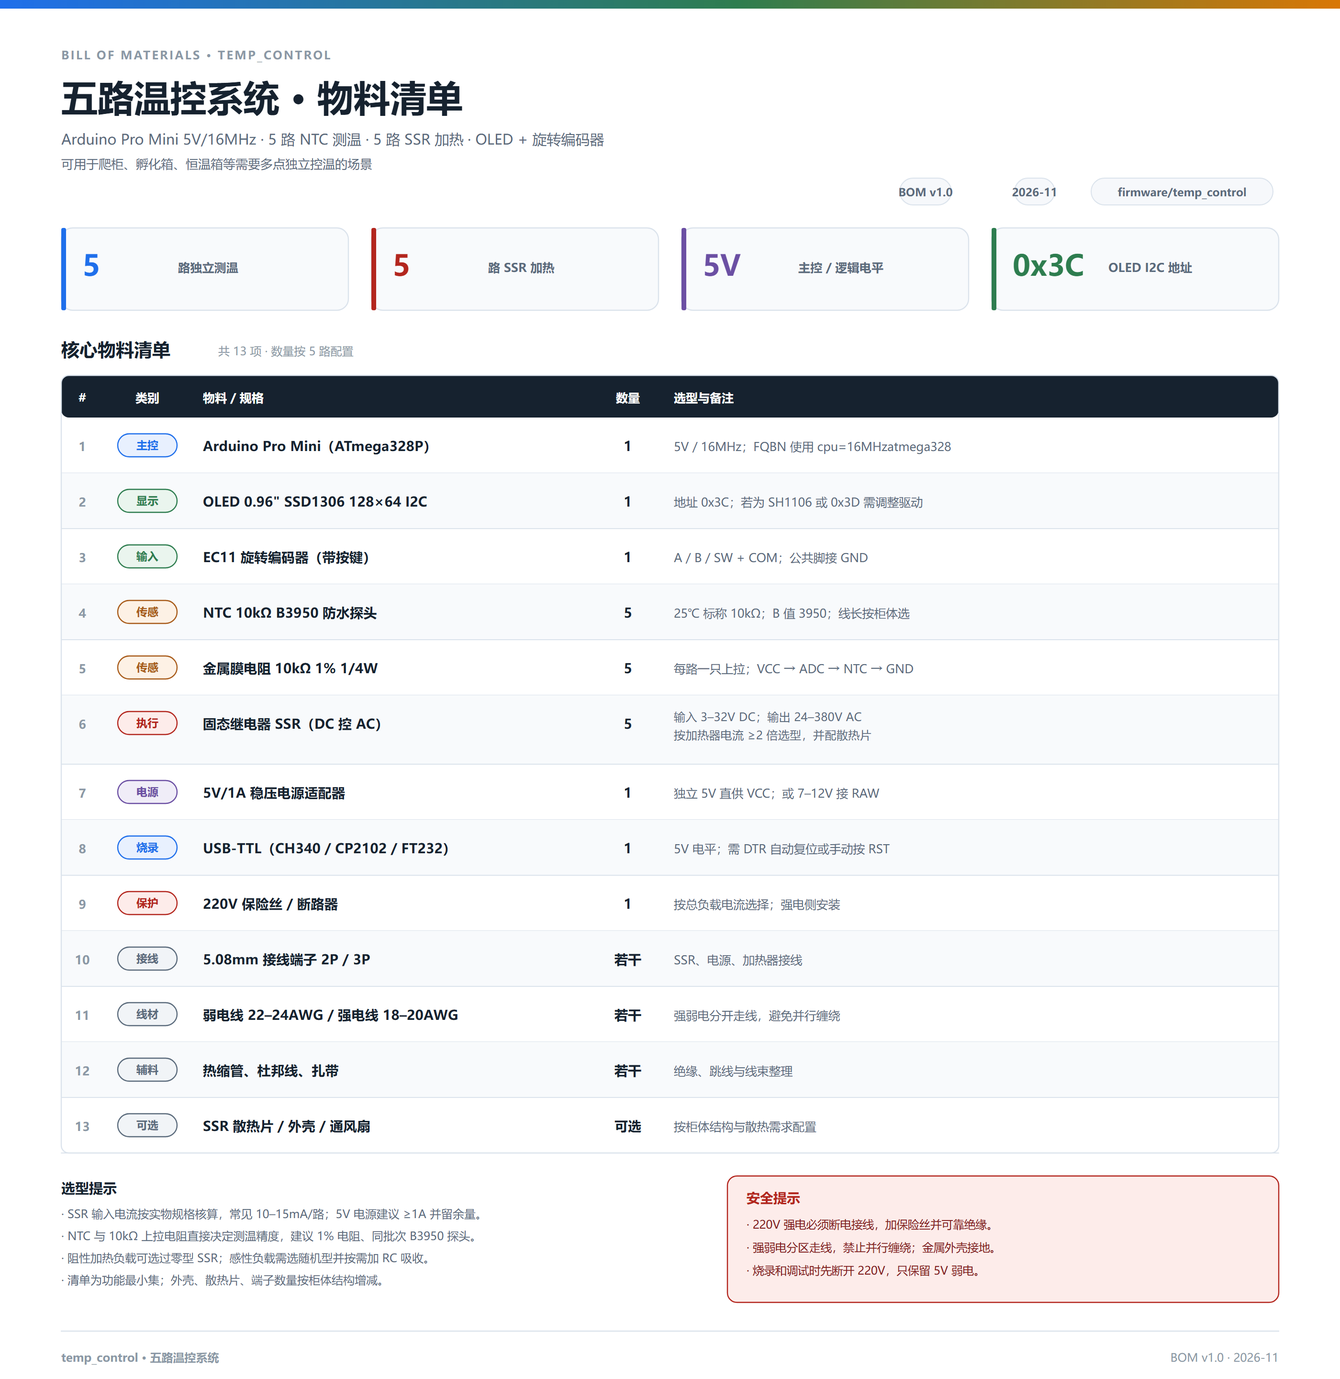
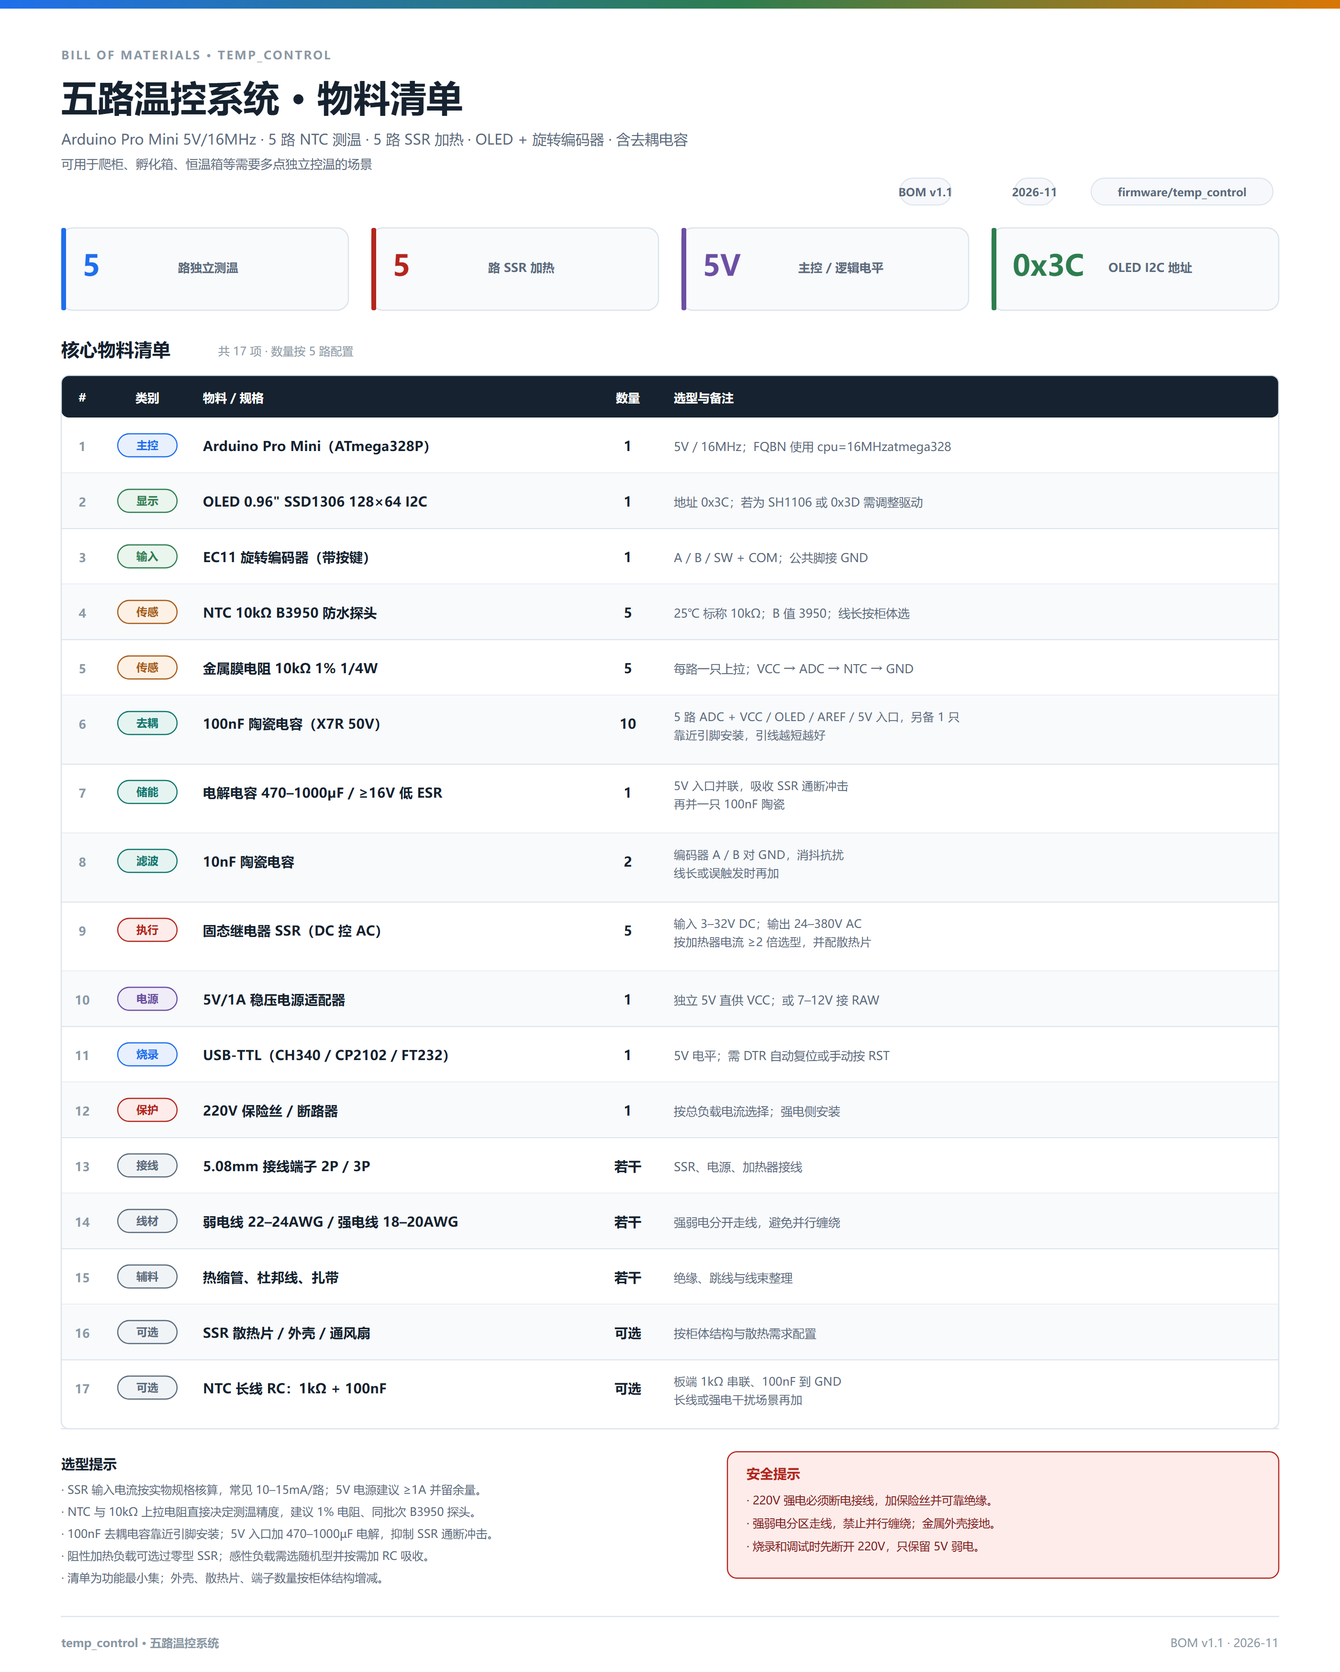
补充电容去耦方案：BOM、接线图与调试文档
- BOM 新增 100nF x10、470-1000uF 电解、10nF x2 及可选的 NTC 长线 RC
- 接线图增加单路 ADC 输入示意，标注 100nF 低通与长线 RC，图例加入电容
- 接线要点补 ADC 去耦、5V 储能、编码器 10nF 与 D5-D9 10k 下拉
- 编码器抗扰建议从 100nF 改为 10nF，避免快转丢步
- BOM 表格高度改为按行数计算，避免增删物料后被裁切

diff --git a/docs/wiring/generate.py b/docs/wiring/generate.py
@@ -22,6 +22,7 @@ SIG = "#1f6feb"
 PWR = "#d92b2b"
 GND = "#1c1c1c"
 NTC = "#a85b1a"
+CAP = "#0f766e"
 
 SSR_FILL = "#fff6ea"
 SSR_LINE = "#c07000"
@@ -32,6 +33,7 @@ MCU_LINE = "#2f5478"
 UI_FILL = "#f1f7f1"
 UI_LINE = "#2e7d4f"
 BAND = "#fafbfd"
+CAP_FILL = "#e6f4f1"
 
 
 def esc(s):
@@ -107,6 +109,15 @@ def ntc_sym(x, y_top, h=64, w=26):
     return "".join(out)
 
 
+def cap_sym(x, y_top, w=24):
+    """Vertical ceramic capacitor: two plates, 18px total height."""
+    out = [line(x, y_top, x, y_top + 4, stroke=CAP, sw=2.2)]
+    out.append(line(x - w / 2.0, y_top + 4, x + w / 2.0, y_top + 4, stroke=CAP, sw=3.0))
+    out.append(line(x - w / 2.0, y_top + 12, x + w / 2.0, y_top + 12, stroke=CAP, sw=3.0))
+    out.append(line(x, y_top + 12, x, y_top + 18, stroke=CAP, sw=2.2))
+    return "".join(out)
+
+
 # ---------------------------------------------------------------- 主接线图
 
 ROWS = [
@@ -137,7 +148,7 @@ def wiring_diagram():
     b.append(text(60, 64, "五路温控系统 · 接线图", 30, INK, weight=700))
     b.append(text(60, 98,
                   "Arduino Pro Mini (ATmega328P, 5V/16MHz) · NTC 10kΩ B3950 上拉接法 · "
-                  "SSR 开关加热 · EC11 编码器 · SSD1306 OLED",
+                  "100nF 去耦 · SSR 开关加热 · EC11 编码器 · SSD1306 OLED",
                   15, SUB))
     b.append(text(60, 120,
                   "5 路独立控温 · 爬柜、孵化箱、恒温箱等场景通用",
@@ -222,7 +233,12 @@ def wiring_diagram():
         b.append(poly([(NODE, y + 90), (NODE, y + 104)], stroke=SIG, sw=2.6))
         b.append(gnd_sym(NODE, y + 104, label=False))
         b.append(text(1215, y + 68, "NTC 10kΩ", 12, NTC, weight=600))
-        b.append(text(NODE + 28, y + 118, "GND", 11, FAINT, weight=600))
+        # 通道 5 的 GND 标注改到左侧，给右下角的 ADC 细节框让位
+        if layer == ROWS[-1][0]:
+            b.append(text(NODE - 28, y + 118, "GND", 11, FAINT,
+                          anchor="end", weight=600))
+        else:
+            b.append(text(NODE + 28, y + 118, "GND", 11, FAINT, weight=600))
         b.append(text(NODE, y - 10, "通道%d 测温" % layer, 11.5, FAINT, anchor="middle"))
 
     # ---------------- 控制面板：编码器 + OLED ----------------
@@ -278,27 +294,60 @@ def wiring_diagram():
     b.append(text(ENC_X - 6, ENC_Y + 80, "COM", 10, GND, anchor="end", weight=600))
 
     # OLED VCC / GND
-    b.append(line(OL_X + OL_W, OL_Y + 30, OL_X + 26 + OL_W, OL_Y + 30,
-                  stroke=PWR, sw=2.4))
-    b.append(line(OL_X + 26 + OL_W, OL_Y + 30, OL_X + 26 + OL_W, OL_Y - 6,
-                  stroke=PWR, sw=2.4))
+    vcc_x = OL_X + 150
+    b.append(line(vcc_x, OL_Y, vcc_x, OL_Y - 6, stroke=PWR, sw=2.4))
     b.append(path("M%s %s L%s %s L%s %s Z"
-                  % (OL_X + 19 + OL_W, OL_Y - 18, OL_X + 26 + OL_W, OL_Y - 32,
-                     OL_X + 33 + OL_W, OL_Y - 18), stroke=PWR, sw=1.5, fill=PWR))
-    b.append(text(OL_X + 26 + OL_W, OL_Y - 38, "VCC", 10.5, PWR,
+                  % (vcc_x - 7, OL_Y - 18, vcc_x, OL_Y - 32,
+                     vcc_x + 7, OL_Y - 18), stroke=PWR, sw=1.5, fill=PWR))
+    b.append(text(vcc_x, OL_Y - 38, "VCC", 10.5, PWR,
                   anchor="middle", weight=700))
 
-    b.append(line(OL_X + OL_W, OL_Y + 72, OL_X + 14 + OL_W, OL_Y + 72,
+    gnd_x = OL_X + 80
+    b.append(line(gnd_x, OL_Y + OL_H, gnd_x, OL_Y + OL_H + 18,
                   stroke=GND, sw=2.4))
-    b.append(line(OL_X + 14 + OL_W, OL_Y + 72, OL_X + 14 + OL_W, OL_Y + 96,
-                  stroke=GND, sw=2.4))
-    b.append(gnd_sym(OL_X + 14 + OL_W, OL_Y + 96, label=False))
-    b.append(text(OL_X + 14 + OL_W + 24, OL_Y + 112, "GND", 10, GND, weight=600))
+    b.append(gnd_sym(gnd_x, OL_Y + OL_H + 18, label=False))
+    b.append(text(gnd_x + 14, OL_Y + OL_H + 40, "GND", 10, GND, weight=600))
+
+    # ---------------- 单路 ADC 输入细节（含去耦电容） ----------------
+    DX, DY, DW, DH = 1210, 1064, 360, 234
+    b.append(rect(DX, DY, DW, DH, fill=CAP_FILL, stroke=CAP, sw=1.6, rx=10))
+    b.append(text(DX + 16, DY + 26, "单路 ADC 输入（每路一份）", 13.5, CAP,
+                  weight=700))
+    b.append(text(DX + 16, DY + 46, "上拉分压 + 100nF 低通，靠近板端", 10.5, SUB))
+
+    # VCC → 10kΩ → 节点
+    b.append(vcc_sym(DX + 40, DY + 72))
+    b.append(line(DX + 40, DY + 102, DX + 60, DY + 102, stroke=PWR, sw=2.4))
+    b.append(resistor(DX + 60, DY + 102))
+    b.append(line(DX + 140, DY + 102, DX + 190, DY + 102, stroke=SIG, sw=2.4))
+    b.append(dot(DX + 190, DY + 102, 4.5, SIG))
+    b.append(text(DX + 198, DY + 88, "→ ADC", 10.5, SIG, weight=700))
+
+    # NTC → GND
+    b.append(line(DX + 190, DY + 102, DX + 190, DY + 114, stroke=SIG, sw=2.4))
+    b.append(ntc_sym(DX + 190, DY + 114, h=40, w=20))
+    b.append(line(DX + 190, DY + 154, DX + 190, DY + 164, stroke=SIG, sw=2.4))
+    b.append(gnd_sym(DX + 190, DY + 164, label=False))
+    b.append(text(DX + 96, DY + 146, "NTC", 10.5, NTC, weight=600))
+    b.append(text(DX + 96, DY + 160, "10kΩ", 10.5, NTC, weight=600))
+
+    # 100nF → GND
+    b.append(line(DX + 190, DY + 102, DX + 270, DY + 102, stroke=SIG, sw=2.4))
+    b.append(line(DX + 270, DY + 102, DX + 270, DY + 112, stroke=CAP, sw=2.2))
+    b.append(cap_sym(DX + 270, DY + 112))
+    b.append(line(DX + 270, DY + 130, DX + 270, DY + 150, stroke=CAP, sw=2.2))
+    b.append(gnd_sym(DX + 270, DY + 150, label=False))
+    b.append(text(DX + 284, DY + 124, "100nF", 10.5, CAP, weight=700))
+
+    b.append(line(DX + 16, DY + 186, DX + DW - 16, DY + 186,
+                  stroke="#b7ded6", sw=1.2))
+    b.append(text(DX + 16, DY + 206, "长线再加：板端 1kΩ 串联", 10.5, SUB))
+    b.append(text(DX + 16, DY + 222, "+ 100nF 到 GND，探头端再并 100nF", 10.5, SUB))
 
     # 图例
     b.append(line(60, 1330, 1580, 1330, stroke="#dbe3ec", sw=1.6))
     items = [(SIG, "信号（数字/模拟/I2C）"), (PWR, "VCC / 5V"),
-             (GND, "GND"), (NTC, "NTC / 电阻")]
+             (GND, "GND"), (NTC, "NTC / 电阻"), (CAP, "电容")]
     x = 70
     for color, label in items:
         b.append(line(x, 1362, x + 34, 1362, stroke=color, sw=4))
@@ -308,10 +357,11 @@ def wiring_diagram():
     b.append(text(60, 1412, "接线要点", 14.5, INK, weight=700))
     notes_a = [
         "NTC 与 10kΩ 上拉电阻串联分压，中点接 A0 / A1 / A2 / A3 / A6",
-        "通道1→A0 / 通道2→A1 / 通道3→A2 / 通道4→A3 / 通道5→A6（通道5 用 ADC6，仅模拟输入）",
-        "通道1→D5 / 通道2→D6 / 通道3→D7 / 通道4→D8 / 通道5→D9，接 SSR 输入正极",
-        "编码器 A→D2、B→D3、按键→D4，编码器公共脚接 GND",
-        "OLED：SDA→A4、SCL→A5、VCC→5V、GND→GND",
+        "通道5 用 A6（ADC6，仅模拟输入）；A4 / A5 留给 OLED I2C",
+        "通道1→D5 … 通道5→D9 接 SSR 输入正极，SSR 输入负极接 GND",
+        "编码器 A/B/SW→D2/D3/D4；OLED SDA/SCL→A4/A5",
+        "每路 ADC 节点加 100nF 到 GND；5V 入口加 470–1000µF + 100nF",
+        "Pro Mini VCC / OLED VCC 各加 100nF 去耦，AREF 加 100nF",
     ]
     for i, s in enumerate(notes_a):
         b.append(text(60, 1442 + i * 27, "· " + s, 12.5, SUB))
@@ -320,6 +370,7 @@ def wiring_diagram():
     notes_b = [
         "改线前必须断电；220V 与弱电分区走线，禁止并行缠绕",
         "单 I/O 最大 20mA，5 路 SSR 输入电流需分别核算，超限加三极管",
+        "D5–D9 建议各加 10k 下拉，防止复位/烧录时 SSR 误导通",
         "Pro Mini 无 USB，需 FTDI/ISP 烧录；供电用 RAW 7–12V 或稳压 5V 接 VCC",
         "5 路同时加热时电流较大，5V 电源与地线需留足余量",
     ]

diff --git a/docs/bom/generate.py b/docs/bom/generate.py
@@ -14,7 +14,8 @@ from xml.sax.saxutils import escape
 
 OUT = Path(__file__).with_name("bom-list.svg")
 
-W, H = 1400, 1440
+# 宽度固定；高度按表格行数在 build() 中计算，避免增删物料后被裁掉。
+W = 1400
 INK = "#16222f"
 SUB = "#5b6b7c"
 FAINT = "#8b98a6"
@@ -24,6 +25,7 @@ GREEN = "#2e7d4f"
 ORANGE = "#a85b1a"
 RED = "#b3261e"
 PURPLE = "#6b4fa3"
+TEAL = "#0f766e"
 
 FONT = ("system-ui, -apple-system, 'Segoe UI', 'Microsoft YaHei', "
         "'PingFang SC', sans-serif")
@@ -65,6 +67,12 @@ ROWS = [
      ["25℃ 标称 10kΩ；B 值 3950；线长按柜体选"], ORANGE, "#fdf1e5"),
     ("传感", "金属膜电阻 10kΩ 1% 1/4W", "5",
      ["每路一只上拉；VCC → ADC → NTC → GND"], ORANGE, "#fdf1e5"),
+    ("去耦", "100nF 陶瓷电容（X7R 50V）", "10",
+     ["5 路 ADC + VCC / OLED / AREF / 5V 入口，另备 1 只", "靠近引脚安装，引线越短越好"], TEAL, "#e6f4f1"),
+    ("储能", "电解电容 470–1000µF / ≥16V 低 ESR", "1",
+     ["5V 入口并联，吸收 SSR 通断冲击", "再并一只 100nF 陶瓷"], TEAL, "#e6f4f1"),
+    ("滤波", "10nF 陶瓷电容", "2",
+     ["编码器 A / B 对 GND，消抖抗扰", "线长或误触发时再加"], TEAL, "#e6f4f1"),
     ("执行", "固态继电器 SSR（DC 控 AC）", "5",
      ["输入 3–32V DC；输出 24–380V AC", "按加热器电流 ≥2 倍选型，并配散热片"], RED, "#fdecea"),
     ("电源", "5V/1A 稳压电源适配器", "1",
@@ -81,6 +89,8 @@ ROWS = [
      ["绝缘、跳线与线束整理"], SUB, "#f1f4f7"),
     ("可选", "SSR 散热片 / 外壳 / 通风扇", "可选",
      ["按柜体结构与散热需求配置"], SUB, "#f1f4f7"),
+    ("可选", "NTC 长线 RC：1kΩ + 100nF", "可选",
+     ["板端 1kΩ 串联、100nF 到 GND", "长线或强电干扰场景再加"], SUB, "#f1f4f7"),
 ]
 
 CARD = [
@@ -92,6 +102,22 @@ CARD = [
 
 
 def build():
+    header_y, header_h = 392, 44
+    table_end = header_y + header_h + sum(58 if len(r[3]) == 1 else 72 for r in ROWS)
+    notes_y = table_end + 42
+    tips = [
+        "SSR 输入电流按实物规格核算，常见 10–15mA/路；5V 电源建议 ≥1A 并留余量。",
+        "NTC 与 10kΩ 上拉电阻直接决定测温精度，建议 1% 电阻、同批次 B3950 探头。",
+        "100nF 去耦电容靠近引脚安装；5V 入口加 470–1000µF 电解，抑制 SSR 通断冲击。",
+        "阻性加热负载可选过零型 SSR；感性负载需选随机型并按需加 RC 吸收。",
+        "清单为功能最小集；外壳、散热片、端子数量按柜体结构增减。",
+    ]
+    box_y, box_h = notes_y - 18, 132
+    footer_line_y = max(notes_y + 26 + (len(tips) - 1) * 23 + 8,
+                        box_y + box_h) + 28
+    footer_text_y = footer_line_y + 32
+    H = footer_text_y + 26
+
     b = []
     b.append('<svg xmlns="http://www.w3.org/2000/svg" width="%d" height="%d" '
              'viewBox="0 0 %d %d" font-family="%s">'
@@ -108,12 +134,12 @@ def build():
     b.append(text(64, 62, "BILL OF MATERIALS · TEMP_CONTROL", 12, FAINT, weight=700, spacing=1.6))
     b.append(text(64, 116, "五路温控系统 · 物料清单", 38, INK, weight=700))
     b.append(text(64, 151,
-                  "Arduino Pro Mini 5V/16MHz · 5 路 NTC 测温 · 5 路 SSR 加热 · OLED + 旋转编码器",
+                  "Arduino Pro Mini 5V/16MHz · 5 路 NTC 测温 · 5 路 SSR 加热 · OLED + 旋转编码器 · 含去耦电容",
                   15, SUB))
     b.append(text(64, 176, "可用于爬柜、孵化箱、恒温箱等需要多点独立控温的场景", 13, SUB))
 
     # 页眉标签
-    tags = [("BOM v1.0", 940, 54), ("2026-11", 1060, 42), ("firmware/temp_control", 1140, 190)]
+    tags = [("BOM v1.1", 940, 54), ("2026-11", 1060, 42), ("firmware/temp_control", 1140, 190)]
     for label, x, w in tags:
         b.append(rect(x, 186, w, 28, fill="#f6f8fb", stroke=LINE, sw=1, rx=14))
         b.append(text(x + w / 2, 205, label, 11.5, SUB, "middle", 600))
@@ -131,7 +157,6 @@ def build():
     b.append(text(228, 371, f"共 {len(ROWS)} 项 · 数量按 5 路配置", 12, FAINT))
 
     table_x, table_w = 64, 1272
-    header_y, header_h = 392, 44
     b.append(rect(table_x, header_y, table_w, header_h, fill=INK, rx=8))
     heads = [
         (86, "#", "middle"),
@@ -166,17 +191,11 @@ def build():
     # 底部说明
     notes_y = y + 42
     b.append(text(64, notes_y, "选型提示", 14.5, INK, weight=700))
-    tips = [
-        "SSR 输入电流按实物规格核算，常见 10–15mA/路；5V 电源建议 ≥1A 并留余量。",
-        "NTC 与 10kΩ 上拉电阻直接决定测温精度，建议 1% 电阻、同批次 B3950 探头。",
-        "阻性加热负载可选过零型 SSR；感性负载需选随机型并按需加 RC 吸收。",
-        "清单为功能最小集；外壳、散热片、端子数量按柜体结构增减。",
-    ]
     for i, tip in enumerate(tips):
         b.append(text(64, notes_y + 26 + i * 23, "· " + tip, 12, SUB))
 
     # 安全提示框
-    box_x, box_y, box_w, box_h = 760, notes_y - 18, 576, 132
+    box_x, box_w = 760, 576
     b.append(rect(box_x, box_y, box_w, box_h, fill="#fdecea", stroke=RED, sw=1.2, rx=10))
     b.append(text(box_x + 20, box_y + 28, "安全提示", 14, RED, weight=700))
     safe = [
@@ -188,9 +207,9 @@ def build():
         b.append(text(box_x + 20, box_y + 55 + i * 24, "· " + s, 11.8, "#7f1d1d"))
 
     # 页脚
-    b.append(line(64, 1390, 1336, 1390, LINE, 1.2))
-    b.append(text(64, 1422, "temp_control · 五路温控系统", 12, FAINT, weight=600))
-    b.append(text(1336, 1422, "BOM v1.0 · 2026-11", 12, FAINT, "end"))
+    b.append(line(64, footer_line_y, 1336, footer_line_y, LINE, 1.2))
+    b.append(text(64, footer_text_y, "temp_control · 五路温控系统", 12, FAINT, weight=600))
+    b.append(text(1336, footer_text_y, "BOM v1.1 · 2026-11", 12, FAINT, "end"))
     b.append("</svg>")
 
     OUT.write_text("\n".join(b), encoding="utf-8")

diff --git a/docs/bom/README.md b/docs/bom/README.md
@@ -17,14 +17,18 @@
 | 3 | 输入 | EC11 旋转编码器（带按键） | 1 | A / B / SW + COM；公共脚接 GND |
 | 4 | 传感 | NTC 10kΩ B3950 防水探头 | 5 | 25℃ 标称 10kΩ，B 值 3950；线长按柜体尺寸选择 |
 | 5 | 传感 | 金属膜电阻 10kΩ 1% 1/4W | 5 | 每路一只上拉电阻：`VCC → 10kΩ → ADC → NTC → GND` |
-| 6 | 执行 | 固态继电器 SSR（DC 控 AC） | 5 | 输入 3–32V DC；输出 24–380V AC；按加热器电流 ≥2 倍选型 |
-| 7 | 电源 | 5V/1A 稳压电源适配器 | 1 | 独立 5V 直供 `VCC`；或用 7–12V 接 `RAW` |
-| 8 | 烧录 | USB-TTL（CH340 / CP2102 / FT232） | 1 | **5V 电平**；支持 DTR 自动复位，或手动按 RST |
-| 9 | 保护 | 220V 保险丝 / 断路器 | 1 | 按总负载电流选择，安装在强电侧 |
-| 10 | 接线 | 5.08mm 接线端子 2P / 3P | 若干 | SSR、电源、加热器接线 |
-| 11 | 线材 | 弱电 22–24AWG / 强电 18–20AWG | 若干 | 强弱电分开走线，避免并行缠绕 |
-| 12 | 辅料 | 热缩管、杜邦线、扎带 | 若干 | 绝缘、跳线与线束整理 |
-| 13 | 可选 | SSR 散热片 / 外壳 / 通风扇 | 可选 | 按柜体结构和散热需求配置 |
+| 6 | 去耦 | 陶瓷电容 100nF（X7R 50V） | 10 | 5 路 ADC 各 1 + VCC / OLED / AREF / 5V 入口各 1，另备 1 只 |
+| 7 | 储能 | 电解电容 470–1000µF / ≥16V 低 ESR | 1 | 并在 5V 入口，吸收 SSR 通断冲击；再并一只 100nF |
+| 8 | 滤波 | 陶瓷电容 10nF | 2 | 编码器 A / B 对 GND，消抖抗扰 |
+| 9 | 执行 | 固态继电器 SSR（DC 控 AC） | 5 | 输入 3–32V DC；输出 24–380V AC；按加热器电流 ≥2 倍选型 |
+| 10 | 电源 | 5V/1A 稳压电源适配器 | 1 | 独立 5V 直供 `VCC`；或用 7–12V 接 `RAW` |
+| 11 | 烧录 | USB-TTL（CH340 / CP2102 / FT232） | 1 | **5V 电平**；支持 DTR 自动复位，或手动按 RST |
+| 12 | 保护 | 220V 保险丝 / 断路器 | 1 | 按总负载电流选择，安装在强电侧 |
+| 13 | 接线 | 5.08mm 接线端子 2P / 3P | 若干 | SSR、电源、加热器接线 |
+| 14 | 线材 | 弱电 22–24AWG / 强电 18–20AWG | 若干 | 强弱电分开走线，避免并行缠绕 |
+| 15 | 辅料 | 热缩管、杜邦线、扎带 | 若干 | 绝缘、跳线与线束整理 |
+| 16 | 可选 | SSR 散热片 / 外壳 / 通风扇 | 可选 | 按柜体结构和散热需求配置 |
+| 17 | 可选 | 1kΩ 电阻 + 100nF 电容 | 可选 | NTC 长线时做板端 RC 滤波 |
 
 ## 关键选型
 
@@ -35,6 +39,34 @@
 - 5V 只能接 Pro Mini 的 `VCC`，不要接 `RAW`；`RAW` 需要 7–12V，板载稳压器才有足够压差。
 - 若使用 USB-TTL 的 VCC 给板子供电，**不要再同时接 RAW 电源**，避免两路电源互相顶牛。
 - 5 路 SSR 同时导通时，注意电源和地线压降；出现复位/屏幕闪烁时，优先加大电源并加 470–1000µF 电解电容。
+
+### 电容与去耦
+
+按收益排序，建议按下面的清单一次配齐（都便宜，能省掉大量玄学排查）：
+
+| 位置 | 规格 | 数量 | 作用 |
+| ---- | ---- | ---: | ---- |
+| 5V 入口 / SSR 汇流处 | 电解 470–1000µF / ≥16V 低 ESR + 100nF 陶瓷 | 1 组 | 吸收 5 路 SSR 同时通断的电流冲击，防复位、花屏、串口掉线 |
+| 每路 ADC（A0–A3、A6）→ GND | 100nF 陶瓷 | 5 | 与 10kΩ 上拉组成约 300Hz 低通，τ≈0.5ms，不影响 1Hz 采样 |
+| Pro Mini `VCC` → GND | 100nF 陶瓷 | 1 | 主控去耦 |
+| OLED `VCC` → GND | 100nF 陶瓷（可再并 10µF） | 1 | 压住整屏刷新时的瞬时跌落 |
+| `AREF` → GND | 100nF 陶瓷 | 1 | 稳定 ADC 基准 |
+| 编码器 A / B → GND | 10nF 陶瓷 | 2 | 消抖抗扰；不要盲目上 100nF，否则快转会丢步 |
+| NTC 长线（可选） | 板端 1kΩ 串联 + 100nF 到 GND，探头端再并 100nF | 5 | 两级 RC，抑制强电与射频耦合 |
+
+接线示意（每路一份）：
+
+```text
+VCC ── 10kΩ ──┬── ADC
+              ├── 100nF ── GND
+             NTC
+              │
+             GND
+```
+
+注意：ADC 节点不要并大电解或 1µF 以上的电容，漏电大、响应慢，100nF 足够。
+NTC 分压与 ADC 基准同源于 VCC，属于比率测量，VCC 小幅波动会互相抵消，
+不需要额外加精密基准。
 
 ### SSR 容量
 
@@ -55,6 +87,7 @@
 - NTC：**10kΩ @ 25℃、B=3950**，防水探头优先，便于放入柜内或水箱。
 - 上拉电阻：**10kΩ 1% 金属膜**，每路一只；精度直接影响测温误差。
 - 探头线尽量避开 220V 强电和 SSR 输出线；长线用双绞线或屏蔽线。
+- 探头线较长或现场干扰大时，在板端加 1kΩ 串联 + 100nF 到 GND 做 RC 滤波。
 - 不要把 NTC 接到 A6 以外的“数字口”当模拟口用；通道 5 固定使用 **A6（ADC6）**。
 
 ### USB-TTL
@@ -79,7 +112,7 @@ python3 docs/bom/generate.py
 生成 `docs/bom/bom-list.svg`。如需 PNG 截图，可用 Chrome / Edge 无头模式：
 
 ```bash
-chrome --headless=new --disable-gpu --hide-scrollbars --force-device-scale-factor=2 --window-size=1400,1440 --screenshot=docs/bom/bom-list.png file:///绝对路径/temp_control/docs/bom/bom-list.svg
+chrome --headless=new --disable-gpu --hide-scrollbars --force-device-scale-factor=2 --window-size=1400,1746 --screenshot=docs/bom/bom-list.png file:///绝对路径/temp_control/docs/bom/bom-list.svg
 ```
 
 仓库中的 `bom-list.png` 即由上述方式导出（2 倍像素密度）。

diff --git a/docs/debugging/README.md b/docs/debugging/README.md
@@ -244,6 +244,7 @@ T(℃)  = T(K) - 273.15
 - SSR 输出侧短路或 SSR 击穿（常见失效模式是常通）；
 - SSR 选成了常闭型或输出型不匹配；
 - D5–D9 在复位/上电时是否被其他电路拉高；
+- D5–D9 是否各加了 10k 下拉；没有的话复位、烧录瞬间引脚高阻，SSR 可能被干扰误导通；
 - 输出负载是否接错，导致 SSR 被旁路；
 - 板子 GPIO 是否损坏（断开 SSR 输入后测 D 脚电压）。
 
@@ -298,8 +299,8 @@ void loop() {}
 - 转一格跳两档：一格产生了更多正交计数，把 `ENC_COUNTS_PER_STEP` 从 4 增大到 8；
 - 转几格才动一档：把 `ENC_COUNTS_PER_STEP` 减小到 2 或 1，同时检查编码器是否接触不良；
 - 不动：确认公共脚接 GND、A/B 接 D2/D3、使用内部上拉；
-- 自己变化/屏幕不睡：A/B 线受干扰或悬空，加 100nF 到 GND、使用双绞线/屏蔽线，
-  并确认没有把编码器公共脚接到 VCC。
+- 自己变化/屏幕不睡：A/B 线受干扰或悬空，加 **10nF** 到 GND（不要上 100nF，
+  否则快转会丢步）、使用双绞线/屏蔽线，并确认没有把编码器公共脚接到 VCC。
 
 按键：SW 接 D4，另一端接 GND；按下为低。短按切换编辑项，长按 800ms 返回运行界面。
 
